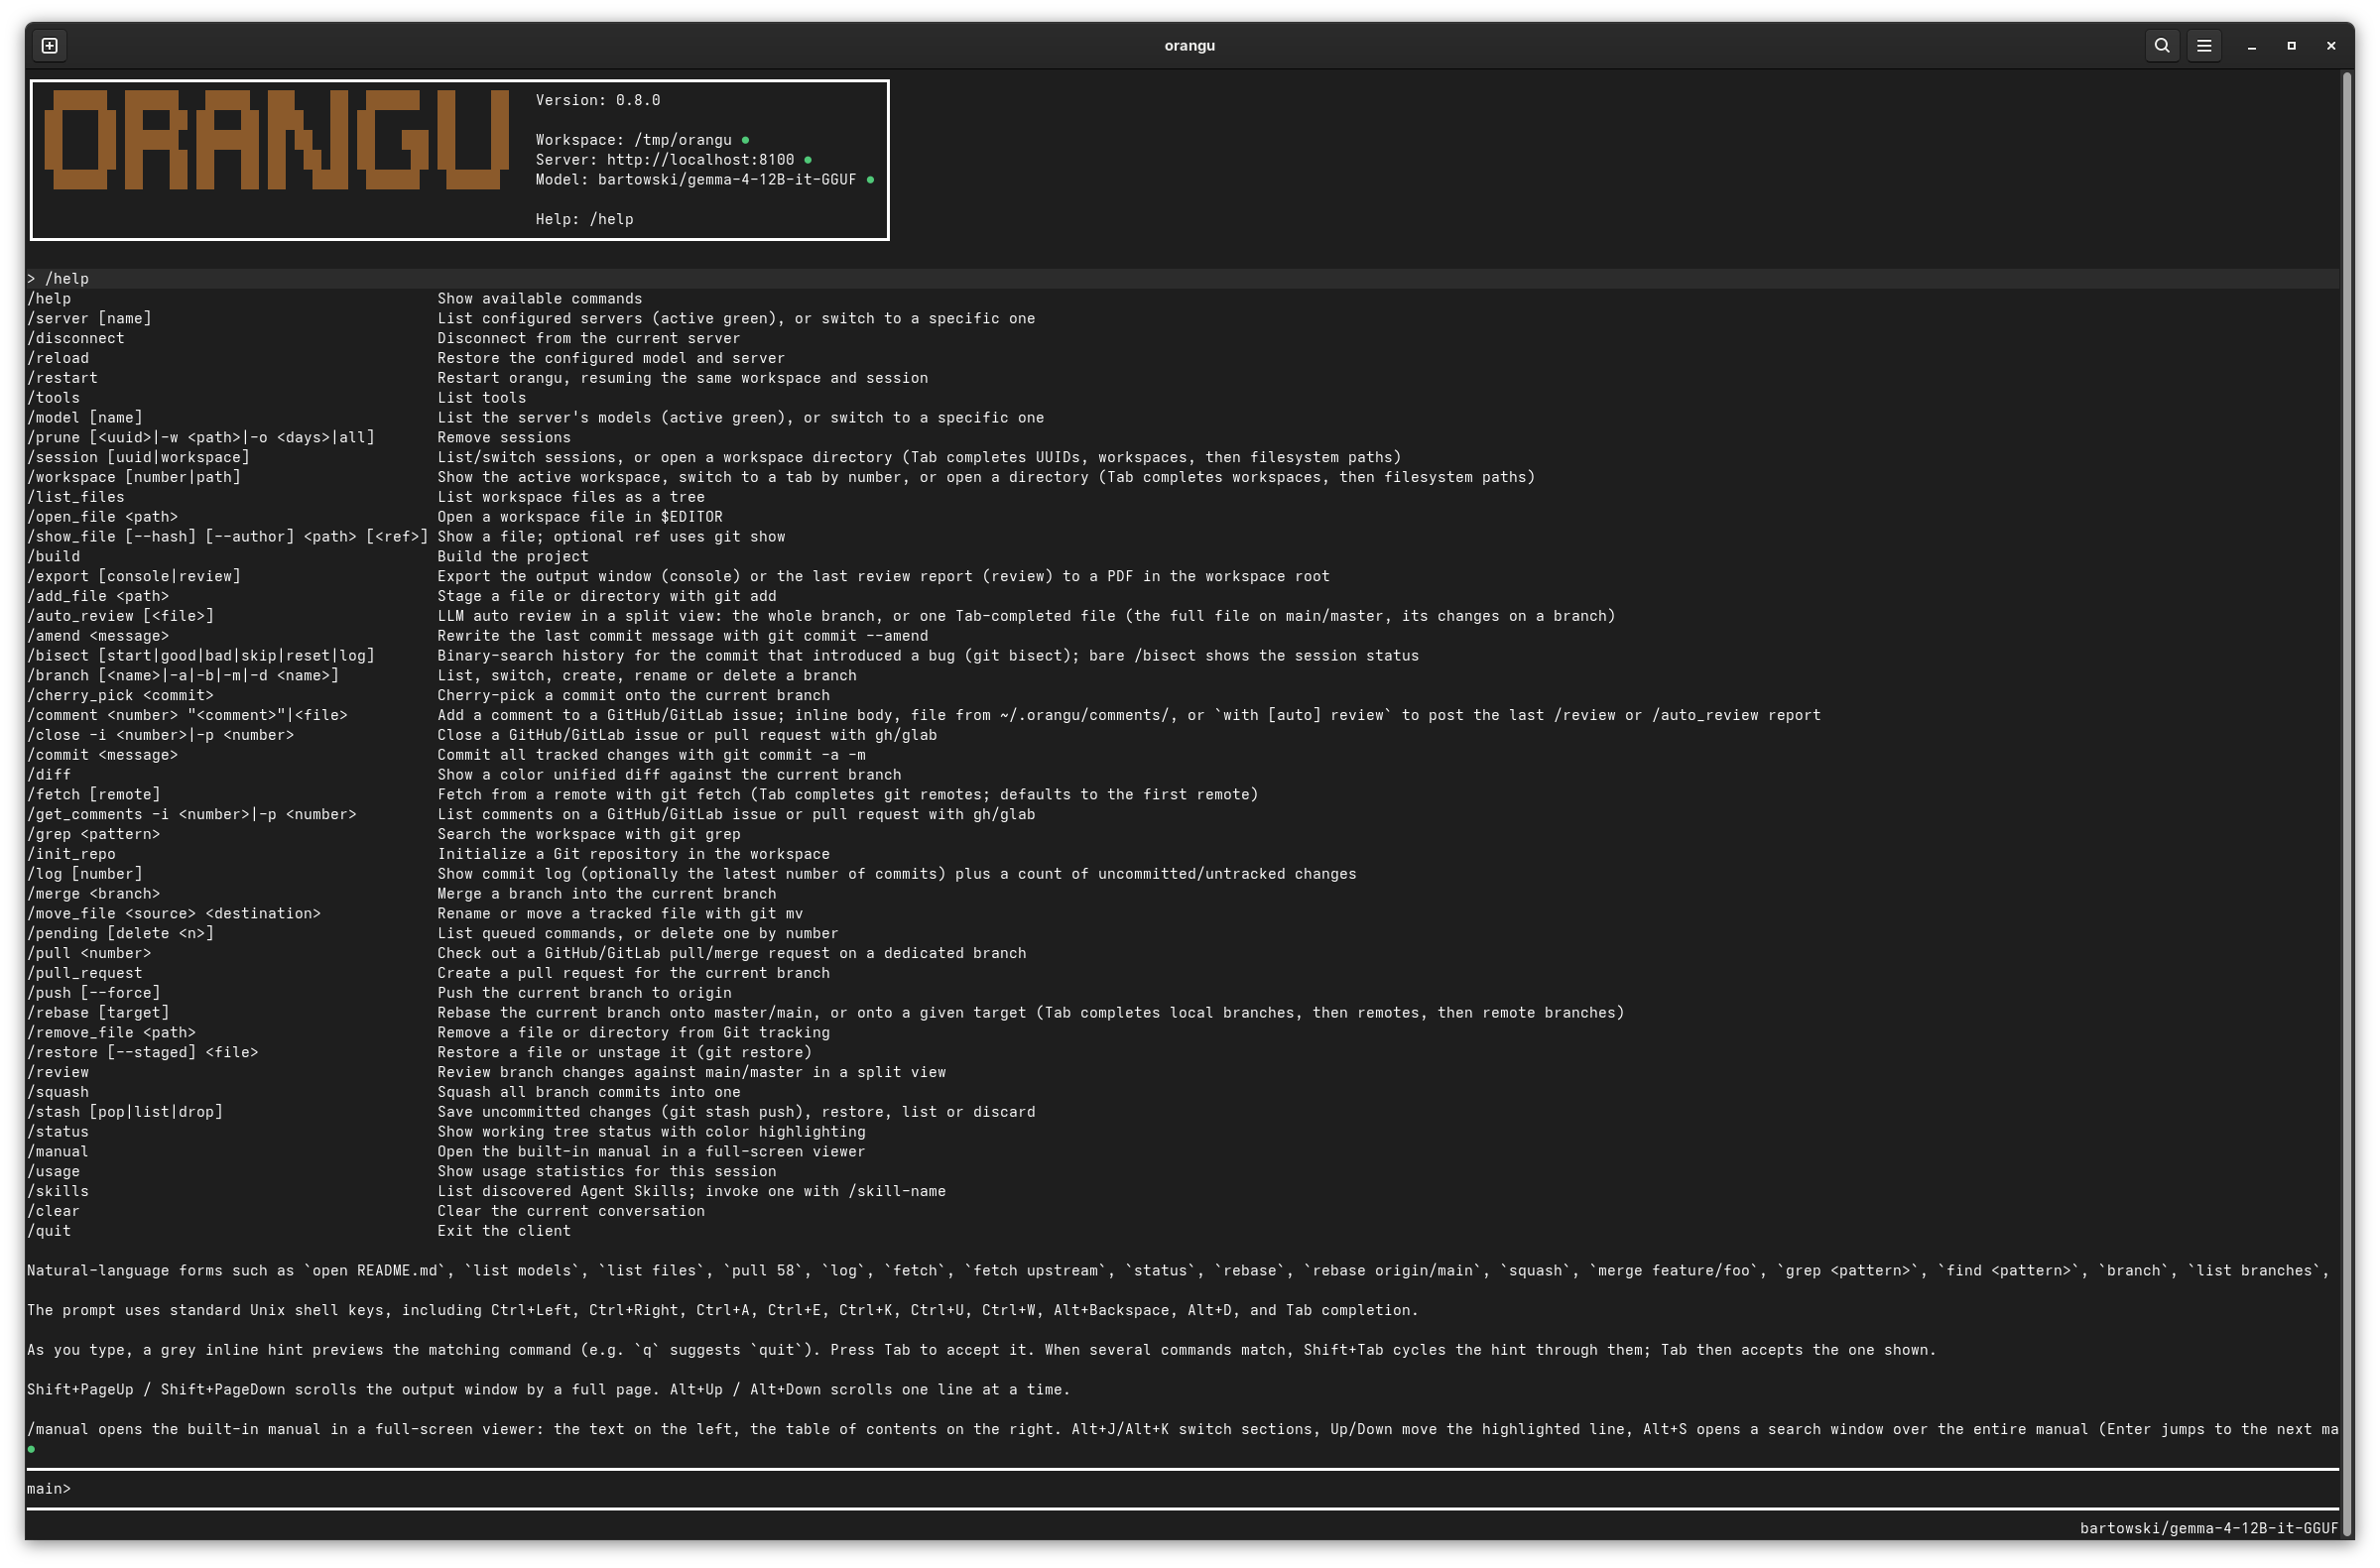
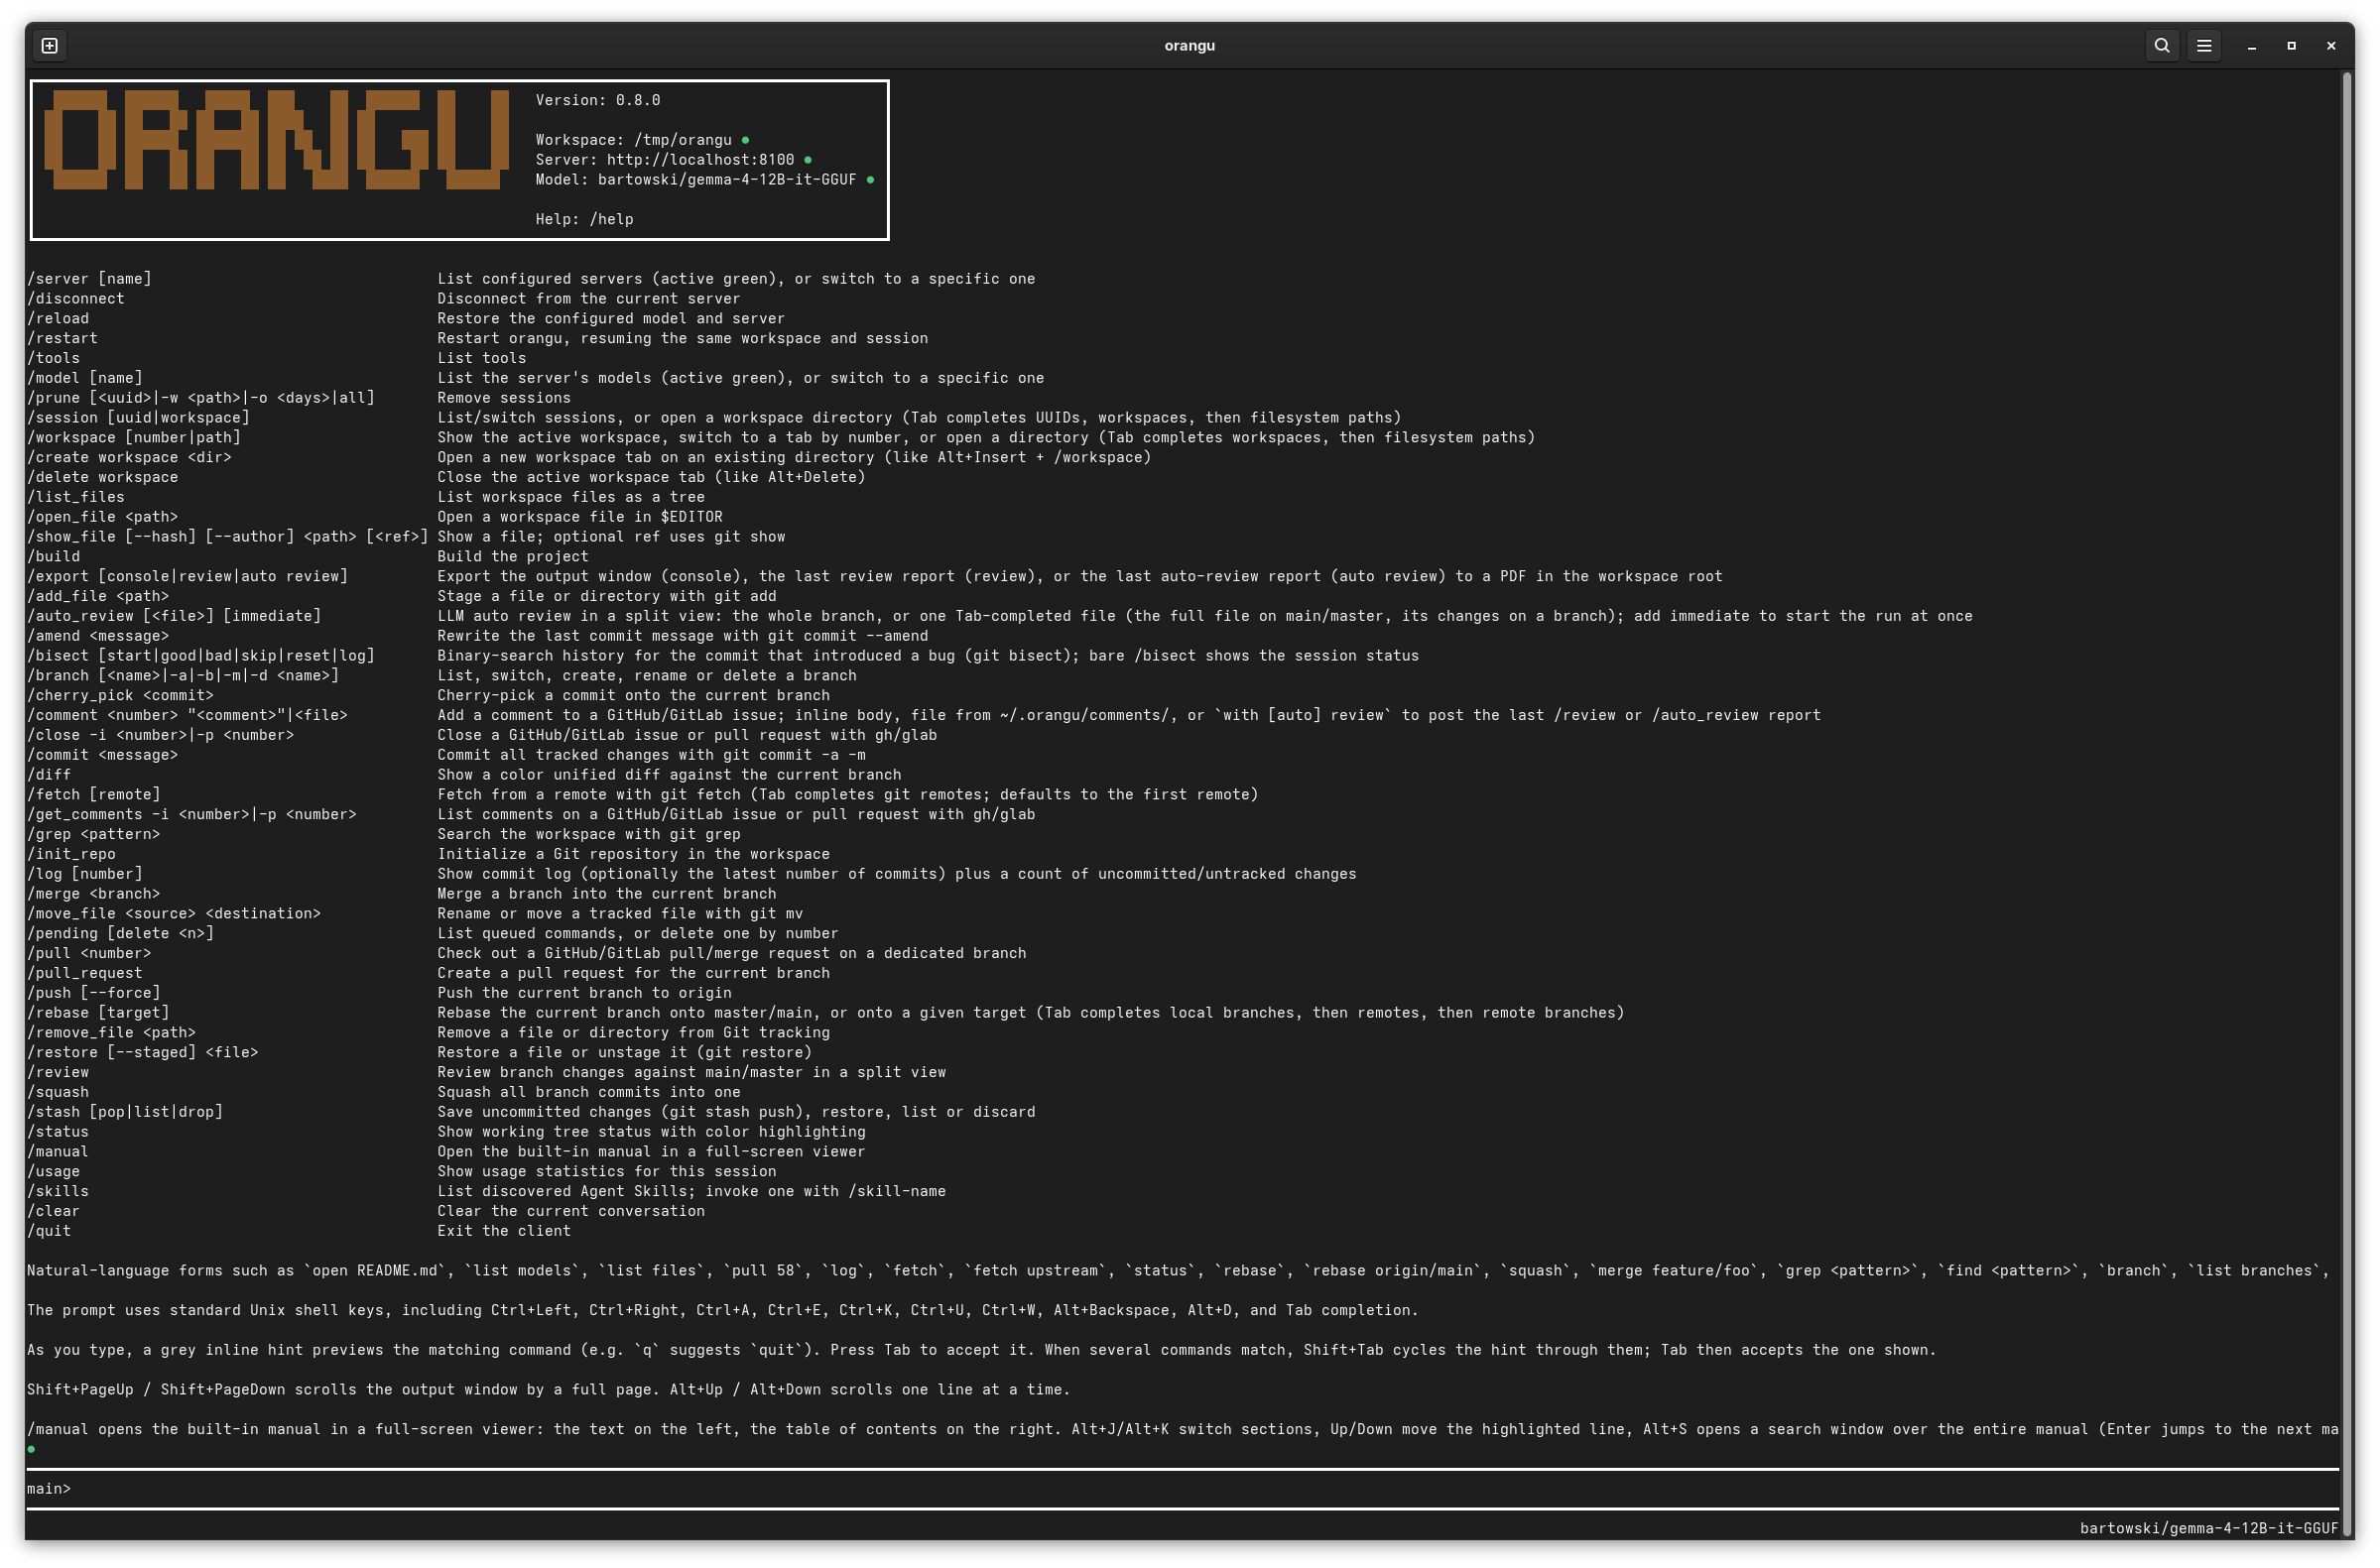
Update documentation

diff --git a/src/tui/header.rs b/src/tui/header.rs
@@ -140,13 +140,15 @@ pub fn help_text() -> &'static str {
 /prune [<uuid>|-w <path>|-o <days>|all]       Remove sessions
 /session [uuid|workspace]                     List/switch sessions, or open a workspace directory (Tab completes UUIDs, workspaces, then filesystem paths)
 /workspace [number|path]                      Show the active workspace, switch to a tab by number, or open a directory (Tab completes workspaces, then filesystem paths)
+/create workspace <dir>                       Open a new workspace tab on an existing directory (like Alt+Insert + /workspace)
+/delete workspace                             Close the active workspace tab (like Alt+Delete)
 /list_files                                   List workspace files as a tree
 /open_file <path>                             Open a workspace file in $EDITOR
 /show_file [--hash] [--author] <path> [<ref>] Show a file; optional ref uses git show
 /build                                        Build the project
-/export [console|review]                      Export the output window (console) or the last review report (review) to a PDF in the workspace root
+/export [console|review|auto review]          Export the output window (console), the last review report (review), or the last auto-review report (auto review) to a PDF in the workspace root
 /add_file <path>                              Stage a file or directory with git add
-/auto_review [<file>]                         LLM auto review in a split view: the whole branch, or one Tab-completed file (the full file on main/master, its changes on a branch)
+/auto_review [<file>] [immediate]             LLM auto review in a split view: the whole branch, or one Tab-completed file (the full file on main/master, its changes on a branch); add immediate to start the run at once
 /amend <message>                              Rewrite the last commit message with git commit --amend
 /bisect [start|good|bad|skip|reset|log]       Binary-search history for the commit that introduced a bug (git bisect); bare /bisect shows the session status
 /branch [<name>|-a|-b|-m|-d <name>]           List, switch, create, rename or delete a branch
@@ -179,7 +181,7 @@ pub fn help_text() -> &'static str {
 /clear                                        Clear the current conversation
 /quit                                         Exit the client
 
-Natural-language forms such as `open README.md`, `list models`, `list files`, `pull 58`, `log`, `fetch`, `fetch upstream`, `status`, `rebase`, `rebase origin/main`, `squash`, `merge feature/foo`, `grep <pattern>`, `find <pattern>`, `branch`, `list branches`, `checkout main`, `switch to main`, `create branch feature/x`, `rename to new-name`, `delete feature/foo`, `restore README.md`, `add README.md`, `remove README.md`, `move old.rs new.rs`, `cherry pick abc1234`, `commit "[#42] My feature"`, `amend "[#42] My feature"`, `push`, `force push`, `add comment on 51 "My comment"`, `comment on 48 with review`, `comment on 48 with auto review`, `get comments for issue 51`, `get comments for pull request 58`, `review`, `auto review`, `export console`, `export review`, `create pull request`, `stash`, `stash pop`, `stash list`, `stash drop`, `bisect start`, `mark good`, `mark bad`, `bisect reset`, `init repo`, `prune session <uuid>`, `prune all`, `prune sessions older than <days>`, `prune sessions in <path>`, `restart`, `pending`, `workspace`, `workspace 1`, `switch workspace ~/project`, `show manual`, and `show help` are also handled locally.
+Natural-language forms such as `open README.md`, `list models`, `list files`, `pull 58`, `log`, `fetch`, `fetch upstream`, `status`, `rebase`, `rebase origin/main`, `squash`, `merge feature/foo`, `grep <pattern>`, `find <pattern>`, `branch`, `list branches`, `checkout main`, `switch to main`, `create branch feature/x`, `rename to new-name`, `delete feature/foo`, `restore README.md`, `add README.md`, `remove README.md`, `move old.rs new.rs`, `cherry pick abc1234`, `commit "[#42] My feature"`, `amend "[#42] My feature"`, `push`, `force push`, `add comment on 51 "My comment"`, `comment on 48 with review`, `comment on 48 with auto review`, `get comments for issue 51`, `get comments for pull request 58`, `review`, `auto review`, `export console`, `export review`, `export auto review`, `create pull request`, `stash`, `stash pop`, `stash list`, `stash drop`, `bisect start`, `mark good`, `mark bad`, `bisect reset`, `init repo`, `prune session <uuid>`, `prune all`, `prune sessions older than <days>`, `prune sessions in <path>`, `restart`, `pending`, `workspace`, `workspace 1`, `switch workspace ~/project`, `create workspace ~/project`, `delete workspace`, `show manual`, and `show help` are also handled locally.
 
 The prompt uses standard Unix shell keys, including Ctrl+Left, Ctrl+Right, Ctrl+A, Ctrl+E, Ctrl+K, Ctrl+U, Ctrl+W, Alt+Backspace, Alt+D, and Tab completion.
 

diff --git a/doc/manual/en/31-workspaces.md b/doc/manual/en/31-workspaces.md
@@ -45,6 +45,30 @@ switch workspace ~/projects/orangu
 
 \newpage
 
+## /create workspace and /delete workspace
+
+`/create workspace <dir>` opens a new tab on an existing directory — the slash-command equivalent of `Alt+Insert` followed by `/workspace <dir>`. The directory must already exist; orangu resolves it, opens a tab on it (resuming the matching session there, or starting a fresh one), and switches to it. A missing or non-existent directory is reported as an error.
+
+`/delete workspace` closes the active tab — the slash-command equivalent of `Alt+Delete`. The remaining tabs are renumbered and focus moves to a neighbour. The last open tab is never closed; use `/quit` to leave orangu.
+
+Both are handled locally and work regardless of server or model state.
+
+### Examples
+
+```text
+/create workspace ~/projects/orangu
+/delete workspace
+```
+
+Natural-language forms:
+
+```text
+create workspace ~/projects/orangu
+delete workspace
+```
+
+\newpage
+
 ## Key bindings
 
 At the prompt, the workspace tabs are driven by these keys:

diff --git a/README.md b/README.md
@@ -46,6 +46,8 @@ orangu is the lean, private, Git-centric coding companion for the terminal — b
 
 **Workspace-aware tooling.** Local tools read, edit, list, search (`/grep`), and fetch files, and run shell commands — all scoped to your workspace. A full set of Git commands (`/status`, `/diff`, `/log`, `/commit`, `/amend`, `/squash`, `/rebase`, `/merge`, `/cherry_pick`, `/branch`, `/stash`, `/bisect`, `/push`, `/pull`, …) and forge integration (`/pull_request`, `/comment`, `/close`, `/get_comments` on GitHub and GitLab) keep the whole change-and-review loop in one place.
 
+**Multiple workspaces as tabs.** Open several projects at once in one orangu instead of one instance per project. Each workspace is a tab with its own session, scrollback, pending queue, and command history; switch with `Alt+,`/`Alt+.` or the `/workspace` command, open and close tabs with `/create workspace <dir>` / `/delete workspace` (or `Alt+Insert`/`Alt+Delete`), and reopen the last set of tabs at startup with `-a`/`--all`. See the [Workspaces](https://github.com/mnemosyne-systems/orangu/blob/main/doc/manual/en/31-workspaces.md) chapter.
+
 **Agent Skills, with progressive disclosure.** orangu discovers skills from four locations: `~/.orangu/skills/`, `~/.agents/skills/`, `<workspace>/.orangu/skills/`, and `<workspace>/.agents/skills/`. At startup it discloses only each skill's name, description, and `SKILL.md` location to the model; the full skill instructions are loaded only when relevant or when you invoke a skill directly with `/skill-name`. Project skills override user skills with the same name.
 
 **Comfortable terminal experience.**
@@ -257,7 +259,7 @@ Or run it directly from the build tree:
 
 By default, local tools operate on the current working directory. Use `--workspace /path/to/project` (`-w`) to point **orangu** at another tree.
 
-The startup flags also have short forms: `-c` for `--config`, `-w` for `--workspace`, `-r` for `--resume`, and `-i` for `--init`.
+The startup flags also have short forms: `-c` for `--config`, `-w` for `--workspace`, `-r` for `--resume`, `-a` for `--all` (reopen the last run's workspace tabs), `-i` for `--init`, and `-s` for `--shell-completions`.
 
 Shell completion scripts (bash, zsh, fish) for these flags live in [`contrib/shell/`](contrib/shell/README.md).
 
@@ -287,6 +289,8 @@ Useful first commands:
 - [Getting Started](https://github.com/mnemosyne-systems/orangu/blob/main/doc/GETTING_STARTED.md)
 - [Quick start](https://github.com/mnemosyne-systems/orangu/blob/main/doc/manual/en/03-quickstart.md)
 - [Configuration](https://github.com/mnemosyne-systems/orangu/blob/main/doc/manual/en/20-configuration.md)
+- [Workspaces](https://github.com/mnemosyne-systems/orangu/blob/main/doc/manual/en/31-workspaces.md)
+- [Skills](https://github.com/mnemosyne-systems/orangu/blob/main/doc/manual/en/32-skills.md)
 - [Terminal interface](https://github.com/mnemosyne-systems/orangu/blob/main/doc/manual/en/40-terminal.md)
 - [Core tools](https://github.com/mnemosyne-systems/orangu/blob/main/doc/manual/en/41-core_tools.md)
 - [Git tools](https://github.com/mnemosyne-systems/orangu/blob/main/doc/manual/en/42-git_tools.md)

diff --git a/doc/manual/en/40-terminal.md b/doc/manual/en/40-terminal.md
@@ -20,6 +20,8 @@ The sync runs in the background so it never delays startup. Its progress and res
 | `-w`  | `--workspace` | Workspace root the local tools operate on. Defaults to `.`.   |
 | `-r`  | `--resume`    | Resume a specific session by UUID.                            |
 | `-a`  | `--all`       | Reopen the workspace tabs that were open at the end of the last run. |
+| `-i`  | `--init`      | Interactively create `~/.orangu/orangu.conf` and exit (see the Configuration chapter). |
+| `-s`  | `--shell-completions` | Print the shell completion script for the detected shell (`$SHELL`; bash, zsh, or fish) and exit. |
 
 ## Header
 

diff --git a/doc/manual/en/20-configuration.md b/doc/manual/en/20-configuration.md
@@ -94,6 +94,7 @@ code_max_tokens = 0
 | `auto_squash` | No | Automatically squash commits before `/pull_request` if more than one commit is ahead of the base. Defaults to `off`. Options: `on`, `true`, `1`, `off`, `false`, `0` |
 | `terminal` | No | Launch command used to open `$EDITOR` for terminal editors in a new window for `/open_file` (for example `xterm -e` or `kitty`). When unset, a terminal emulator is auto-detected |
 | `platform` | No | Code-hosting platform driven for `/pull`, `/pull_request`, `/merge`, and `/comment`. Defaults to `github` (uses the `gh` CLI). Options: `github`, `gitlab` (uses the `glab` CLI) |
+| `system_prompt` | No | Override the base system prompt sent to the model. When empty (the default) orangu uses its built-in coding-assistant prompt. The discovered Agent Skills index is appended to whichever prompt is in effect |
 
 ### Response-token caps
 